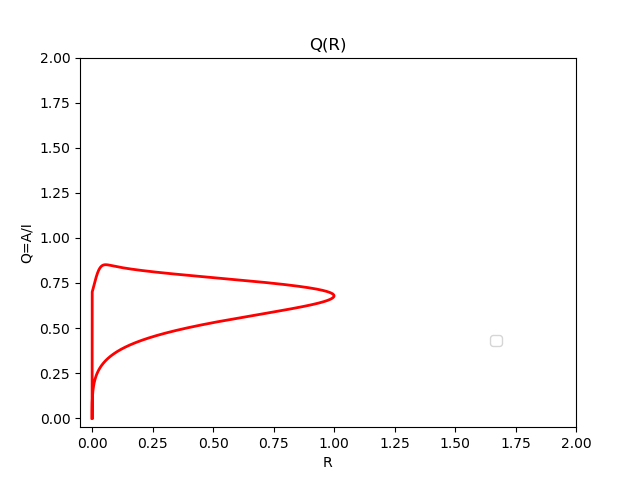
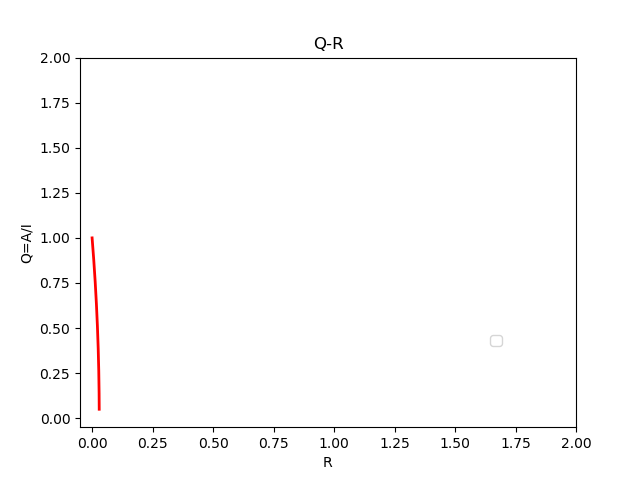
gg

diff --git a/angiogenesis/Chemotaxis_paradox/LEGI Ultrasensitive model/coef_setting.py b/angiogenesis/Chemotaxis_paradox/LEGI Ultrasensitive model/coef_setting.py
@@ -6,37 +6,42 @@ def declare_coef(): #1
     set = {}
     sol = {}
     
-#     coef['LEGI'] = 'basic'
-    coef['LEGI'] = 'ultrasensitive'
+#     coef['C_prof'] = 'exp'
+#     coef['C_prof'] = 'step'
+    coef['C_prof'] = 'tan'
+    
+    coef['LEGI'] = 'basic'
+#     coef['LEGI'] = 'ultrasensitive'
     
     #kinetics
     ff = 1
     coef['k_a'] = ff*3.3
-    coef['l_a'] = ff*0.2    
+    coef['l_a'] = ff*0.2 #0.2   
 #     coef['teta_a'] = ff*10**(-3)
     coef['k_i'] = ff*2.8
-    coef['l_i'] = ff*0.1
+    coef['l_i'] = ff*0.1 #0.1
 #     coef['teta_i'] = ff*10**(-3) 
     if coef['LEGI'] == 'basic':
-        coef['k_A'] = 3#68
-        coef['k_I'] = 1.6#160        
+        coef['k_A'] = 3#3#68
+        coef['k_I'] = 1.6#1.6#160        
     elif coef['LEGI'] == 'ultrasensitive':
         coef['k_A'] = 3
         coef['k_I'] = 1.6
     coef['R_o'] = 2
-    coef['K_I'] = ff*0.1 #specified
+    coef['K_I'] = ff*0.01 #0.1#0.01 
     coef['K_A'] = ff*0.44
     
     '''VEGF (c)'''
     coef['vel'] = 1 #velocity of wave
     coef['A_c'] = 1 #amplitude of wave
-    coef['vari'] = 600 #1 #600 #variance of wave
+    coef['vari'] = 1#1000 #1 #600 #variance of wave
 
     
     '''Spatial and Temporal Meshes Number'''
     ##set dictionaries (fixed: never change)
-    set['T'] = 600 + 0.001 #second #100 #300
-    set['delay'] =90 #5 #90
+    set['T'] = 30 + 0.001 #second #100 #300 #1500
+    set['delay1'] =200 #5 #90
+    set['delay2'] =350
     set['Nt'] = 1000000
     set['dt'] = 0.01
        

diff --git a/angiogenesis/Chemotaxis_paradox/LEGI Ultrasensitive model/solve_system_1d.py b/angiogenesis/Chemotaxis_paradox/LEGI Ultrasensitive model/solve_system_1d.py
@@ -2,19 +2,25 @@ import numpy
 import math as m
 
 def c_kinetic_(coef, set, sol, c_o, A_o, I_o, Ki_o):              
-    '''at sub lattice'''
-    C_ = coef['A_c']*m.exp(-(coef['vel']*set['dt']*set['k']-set['delay'])**2/coef['vari'])
+    if coef['C_prof'] == 'exp':
+        C_ = coef['A_c']*m.exp(-(coef['vel']*set['dt']*set['k']-set['delay'])**2/coef['vari']) #exponentially
+    elif coef['C_prof'] == 'step':
+        if set['t'] > 60 and set['t'] < 180:
+            C_ = 1
+        else:
+            C_ = 0
+    elif coef['C_prof'] == 'tan':
+        C_ = 0.5*m.tanh((set['delay2']-set['t'])/5)+0.5*m.tanh((set['t']-set['delay1'])/5)
     sol['c'].append(C_)
     
     '''Calculate A,I,Ki'''
     A_ = A_o*(1-set['dt']*coef['l_a']) + set['dt']*coef['k_a']*c_o # + set['dt']*coef['teta_a']
     I_ = I_o*(1-set['dt']*coef['l_i']) + set['dt']*coef['k_i']*c_o # + set['dt']*coef['teta_i'] 
-    if I_ != 0 :
-        Q_ = A_/I_
+    if I_ == 0 and A_ == 0:
+        Q_ = coef['k_a']/coef['k_i']*m.exp(set['t']*(coef['l_a']-coef['l_i']))
     else:
-        Q_ = 0
+        Q_ = A_/I_
         
-    
     sol['A'].append(A_)
     sol['I'].append(I_)
     sol['Q'].append(Q_)

diff --git a/angiogenesis/Chemotaxis_paradox/LEGI Ultrasensitive model/picture_1d.py b/angiogenesis/Chemotaxis_paradox/LEGI Ultrasensitive model/picture_1d.py
@@ -137,7 +137,7 @@ def pic_1d(coef,set,sol):
         plt.ylabel('value')
         plt.xlabel('t (time)')
         plt.ylim(0,1.7)
-        plt.xlim(0,310)
+#         plt.xlim(0,310)
         flag = 'QSR=%s' % str(sol['p_3']) 
         plt.savefig(results_dir +"%s.png" % flag)
         plt.close()
@@ -185,12 +185,12 @@ def pic_1d(coef,set,sol):
         
         plt.figure(14)
         axes = plt.gca()
-        plt.title('%s' % ('Q(R)'))
-        plt.plot(sol['c'], sol['Qr'], 'r', linewidth=2.0)
+        plt.title('%s' % ('Q-R'))
+        plt.plot(sol['Ki'], sol['Q'], 'r', linewidth=2.0)
         plt.legend(bbox_to_anchor=(0.85, 0.25), loc=0, borderaxespad=0.)
         plt.ylabel('Q=A/I')
         plt.xlabel('R')
-        plt.ylim(-0.05,2)
+        plt.ylim(-0.05,2) # -0.05
         plt.xlim(-0.05,2)
         flag = 'Qr=%s' % str(sol['p_3']) 
         plt.savefig(results_dir +"%s.png" % flag)

diff --git a/angiogenesis/Chemotaxis_paradox/LEGI Ultrasensitive model/init_1d.py b/angiogenesis/Chemotaxis_paradox/LEGI Ultrasensitive model/init_1d.py
@@ -2,12 +2,13 @@ import numpy
 import math as m
 
 def init_1d_(coef,set,sol): #2.1.1
-    sol['c'] = [0]
+    sol['c'] = [0]#coef['A_c']*m.exp(-(coef['vel']*0-set['delay'])**2/coef['vari'])]
     
-    sol['A'] = [0]
-    sol['I'] = [0]
-    sol['Ki'] = [1]
-    sol['Q'] = [0]
+    sol['A'] = [0.001]
+    sol['I'] = [0.001]
+    sol['Ki'] = [0]
+    sol['Q'] = [sol['A'][-1]/sol['I'][-1]]
+#     sol['Q'] = [coef['k_a']/coef['k_i']]
     sol['Qr'] = [0]
     
     sol['F_Ki'] = [0]

diff --git a/angiogenesis/Chemotaxis_paradox/LEGI Ultrasensitive model/run_main_code.py b/angiogenesis/Chemotaxis_paradox/LEGI Ultrasensitive model/run_main_code.py
@@ -21,9 +21,11 @@ while set['t'] <= set['T'] and set['k'] < set['Nt']:
         set['k'] = sol['stop_iter']
     '''PRINTING RESULT AS CONTROL'''  
     print 'at Time', set['t']
+    print 'S', sol['c'][-1]
     print 'A,I,Q', sol['A'][-1],sol['I'][-1],sol['Q'][-1]
     print 'F,G', sol['F_Ki'][-1], sol['G_Ki'][-1]
     print 'R', sol['Ki'][-1]
+    print 'Q(R)', sol['Qr'][-1]
         
     '''Picture'''
     gg = int((set['T'] - 0.001)/set['dt'])
